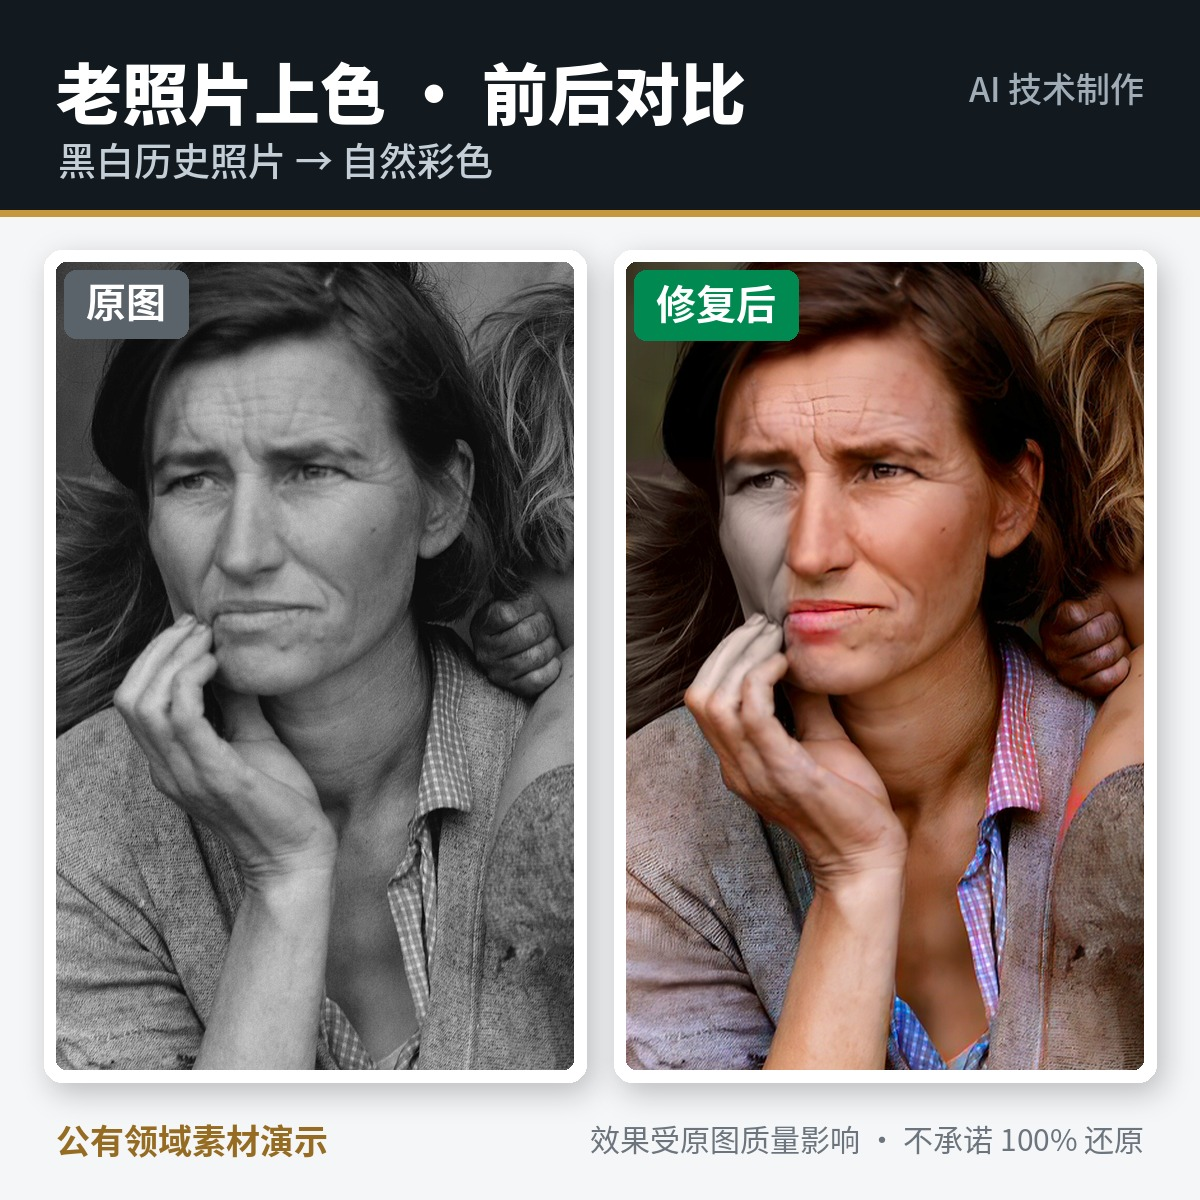
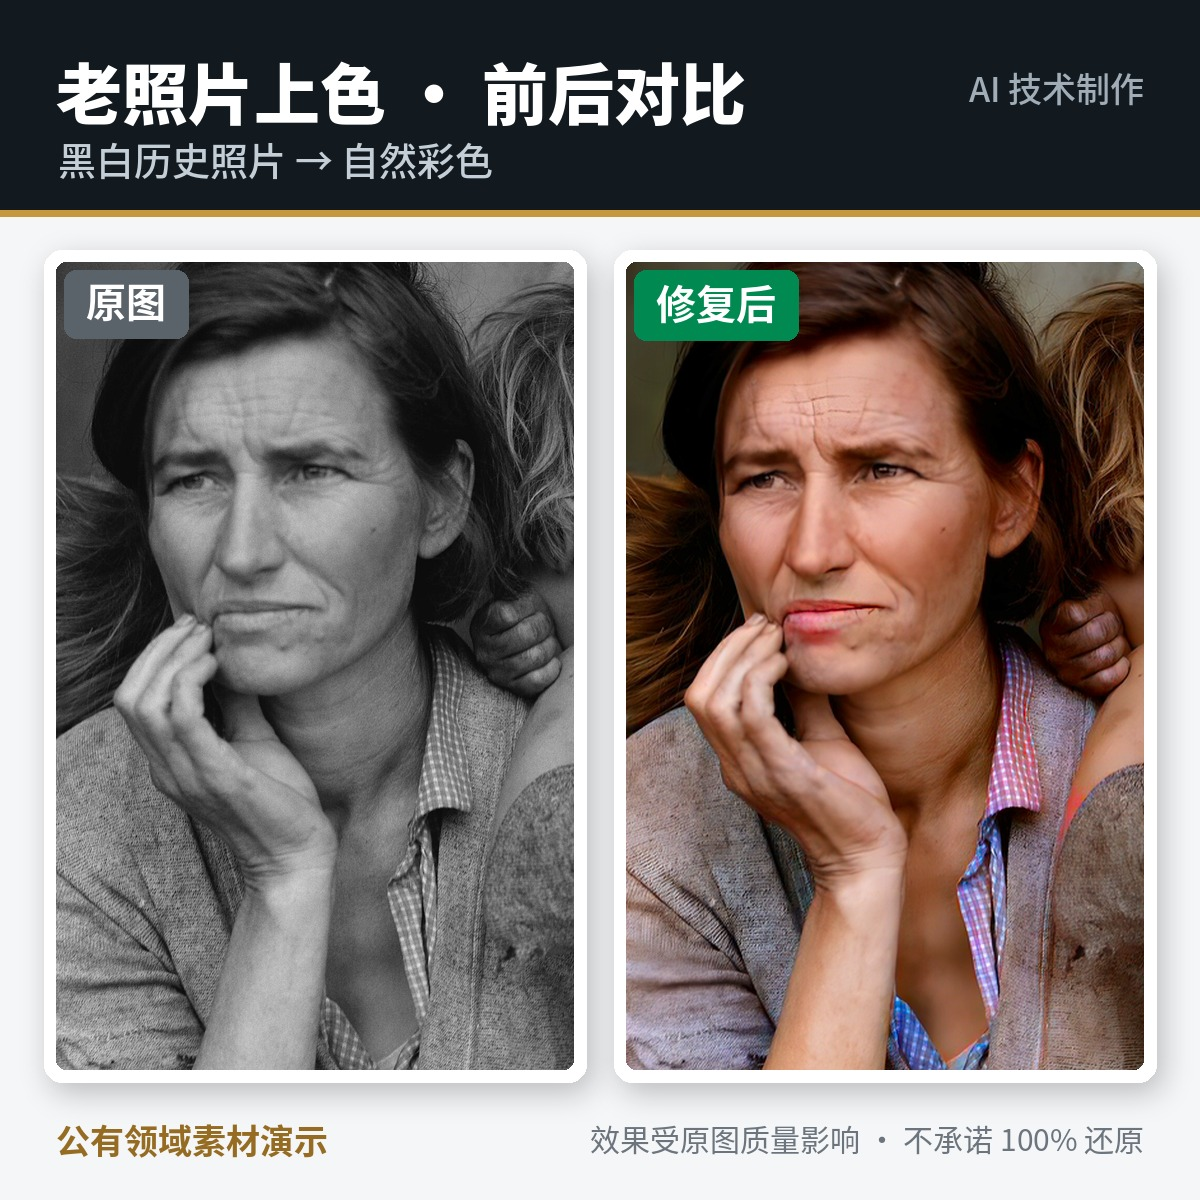
fix(photo): #224 hist01 上色按 #225 D2 干净口径重出（DDColor，不套 skin_fix）
- Owner 优先项：hist01 colorize 改 --colorizer ddcolor + skin_fix:false → 无灰块
- 重出 main-01/ba-01 物料；service-01 用 hist02;README 同步
- 打包 /mnt/data/upload/AI修图-上架包-20261002-v3.zip

Changed region(s): [[0.5242, 0.37, 0.6783, 0.555], [0.5242, 0.4933, 0.555, 0.5858]]

diff --git a/marketing/ai-photo-上架物料-v1/README.md b/marketing/ai-photo-上架物料-v1/README.md
@@ -59,7 +59,7 @@ python3 inference/photo/marketing.py \
 ## 五、边界
 
 - 不承诺 100% 还原（图内注明）。
-- **上色引擎（#225）**：main/ba-01/ba-03 与 service 上色面板改用 **DDColor-L** 出色 + `chroma_transfer` 保原图亮度/质感，消除旧链路（SDXL strength=0.80）的手臂/衣物蓝块串色；详见 `docs/photo-colorize-offset-225.md`。
+- **上色引擎（#225）**：main/ba-01/ba-03 与 service 上色面板改用 **DDColor-L** 出色 + `chroma_transfer` 保原图亮度/质感（**不套 skin_fix**），消除旧链路（SDXL strength=0.80）的手臂/衣物蓝块串色；详见 `docs/photo-colorize-offset-225.md`。
 - **ba-04**：改用**真实老照片**（WW1 肖像，PD）演示破损修复（去划痕/白斑 + 修复），替换原油画对拍图。
 
 — sage（ai_engineer）· v2 · 2026-10-02（#224 重出 4 件：main-01 / ba-01 / service-01 / ba-04）
